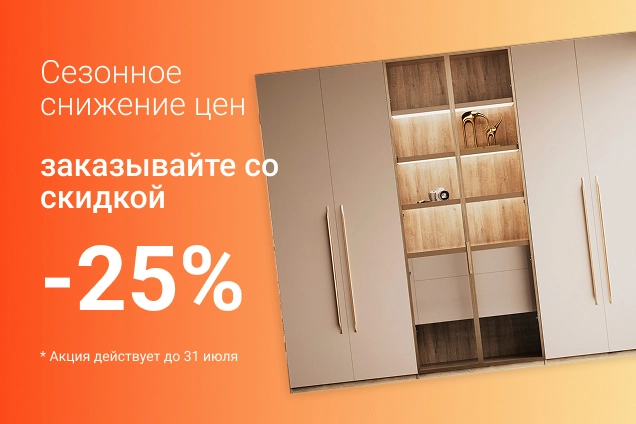
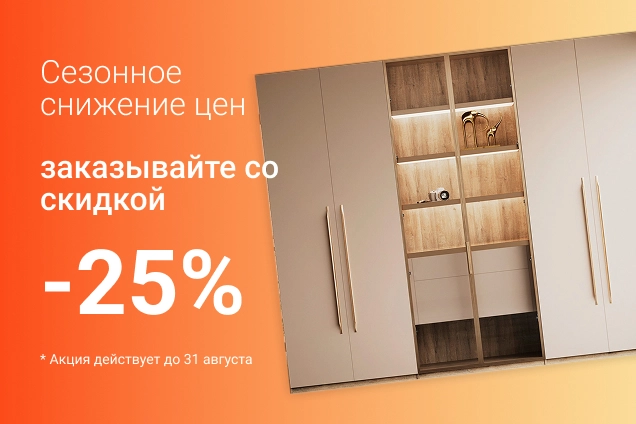
обновил даты акций

Changed region(s): [[0.0597, 0.5519, 0.3884, 0.7665], [0.0597, 0.3373, 0.4481, 0.5212], [0.0597, 0.8278, 0.4182, 0.8585]]

diff --git a/calculator.php b/calculator.php
@@ -337,7 +337,7 @@ include "header.php"; ?>
 				<div class="col-12 col-md-6 mb-3 mb-md-0 section-image order-1 order-md-0">
 					<div class="single-image-wrapper">
 						<div class="approximation img-wrapper position-relative gallery-2691">
-							<img src="<?php echo get_stylesheet_directory_uri(); ?>/img/card/action-card.webp" class="d-block w-100 single-product-img rounded-large" loading="lazy" alt="Скидка до 25%. Акция до 31 июля">
+							<img src="<?php echo get_stylesheet_directory_uri(); ?>/img/card/action-card.webp" class="d-block w-100 single-product-img rounded-large" loading="lazy" alt="Скидка до 25%. Акция до 31 августа">
 						</div>
 					</div>
 				</div>
@@ -345,7 +345,7 @@ include "header.php"; ?>
 				<div class="col-12 col-md-6 mb-0 section-image order-1 order-md-0">
 					<div class="single-image-wrapper">
 						<div class="approximation img-wrapper position-relative gallery-2691">
-							<img src="<?php echo get_stylesheet_directory_uri(); ?>/img/card/action-card-2.webp" class="d-block w-100 single-product-img rounded-large" loading="lazy" alt="Беспроцентная рассрочка на 1 год. Акция до 31 июля">
+							<img src="<?php echo get_stylesheet_directory_uri(); ?>/img/card/action-card-2.webp" class="d-block w-100 single-product-img rounded-large" loading="lazy" alt="Беспроцентная рассрочка на 1 год. Акция до 31 августа">
 						</div>
 					</div>
 				</div>

diff --git a/shkafy-cupe.php b/shkafy-cupe.php
@@ -360,7 +360,7 @@ include "header.php"; ?>
 				<div class="col-12 col-md-6 mb-3 mb-md-0 section-image order-1 order-md-0">
 					<div class="single-image-wrapper">
 						<div class="approximation img-wrapper position-relative gallery-2691">
-							<img src="<?php echo get_stylesheet_directory_uri(); ?>/img/card/action-card.webp" class="d-block w-100 single-product-img rounded-large" loading="lazy" alt="Скидка до 25%. Акция до 31 июля">
+							<img src="<?php echo get_stylesheet_directory_uri(); ?>/img/card/action-card.webp" class="d-block w-100 single-product-img rounded-large" loading="lazy" alt="Скидка до 25%. Акция до 31 августа">
 						</div>
 					</div>
 				</div>
@@ -368,7 +368,7 @@ include "header.php"; ?>
 				<div class="col-12 col-md-6 mb-0 section-image order-1 order-md-0">
 					<div class="single-image-wrapper">
 						<div class="approximation img-wrapper position-relative gallery-2691">
-							<img src="<?php echo get_stylesheet_directory_uri(); ?>/img/card/action-card-2.webp" class="d-block w-100 single-product-img rounded-large" loading="lazy" alt="Беспроцентная рассрочка на 1 год. Акция до 31 июля">
+							<img src="<?php echo get_stylesheet_directory_uri(); ?>/img/card/action-card-2.webp" class="d-block w-100 single-product-img rounded-large" loading="lazy" alt="Беспроцентная рассрочка на 1 год. Акция до 31 августа">
 						</div>
 					</div>
 				</div>

diff --git a/shkafy-raspashnye-new.php b/shkafy-raspashnye-new.php
@@ -302,10 +302,10 @@ $hero_bg = $theme_uri . "/img/ico/advantage/hero-shkafy-raspashnye.jpg"; ?>
 		</div>
 		<div class="row">
 			<div class="col-12 col-md-6 mb-4 mb-md-0">
-				<img src="<?php echo $theme_uri; ?>/img/card/action-card.webp" class="stock__img" loading="lazy" alt="Скидка до 25%. Акция до 31 июля">
+				<img src="<?php echo $theme_uri; ?>/img/card/action-card.webp" class="stock__img" loading="lazy" alt="Скидка до 25%. Акция до 31 августа">
 			</div>
 			<div class="col-12 col-md-6">
-				<img src="<?php echo $theme_uri; ?>/img/card/action-card-2.webp" class="stock__img" loading="lazy" alt="Беспроцентная рассрочка на 1 год. Акция до 31 июля">
+				<img src="<?php echo $theme_uri; ?>/img/card/action-card-2.webp" class="stock__img" loading="lazy" alt="Беспроцентная рассрочка на 1 год. Акция до 31 августа">
 			</div>
 		</div>
 	</div>

diff --git a/rabochie-zony-new.php b/rabochie-zony-new.php
@@ -302,10 +302,10 @@ $hero_bg = $theme_uri . "/img/ico/advantage/hero-rabochie-zony.jpg"; ?>
 		</div>
 		<div class="row">
 			<div class="col-12 col-md-6 mb-4 mb-md-0">
-				<img src="<?php echo $theme_uri; ?>/img/card/action-card.webp" class="stock__img" loading="lazy" alt="Скидка до 25%. Акция до 31 июля">
+				<img src="<?php echo $theme_uri; ?>/img/card/action-card.webp" class="stock__img" loading="lazy" alt="Скидка до 25%. Акция до 31 августа">
 			</div>
 			<div class="col-12 col-md-6">
-				<img src="<?php echo $theme_uri; ?>/img/card/action-card-2.webp" class="stock__img" loading="lazy" alt="Беспроцентная рассрочка на 1 год. Акция до 31 июля">
+				<img src="<?php echo $theme_uri; ?>/img/card/action-card-2.webp" class="stock__img" loading="lazy" alt="Беспроцентная рассрочка на 1 год. Акция до 31 августа">
 			</div>
 		</div>
 	</div>

diff --git a/garderobnye-new.php b/garderobnye-new.php
@@ -302,10 +302,10 @@ $hero_bg = $theme_uri . "/img/ico/advantage/hero-garderobnye.jpg"; ?>
 		</div>
 		<div class="row">
 			<div class="col-12 col-md-6 mb-4 mb-md-0">
-				<img src="<?php echo $theme_uri; ?>/img/card/action-card.webp" class="stock__img" loading="lazy" alt="Скидка до 25%. Акция до 31 июля">
+				<img src="<?php echo $theme_uri; ?>/img/card/action-card.webp" class="stock__img" loading="lazy" alt="Скидка до 25%. Акция до 31 августа">
 			</div>
 			<div class="col-12 col-md-6">
-				<img src="<?php echo $theme_uri; ?>/img/card/action-card-2.webp" class="stock__img" loading="lazy" alt="Беспроцентная рассрочка на 1 год. Акция до 31 июля">
+				<img src="<?php echo $theme_uri; ?>/img/card/action-card-2.webp" class="stock__img" loading="lazy" alt="Беспроцентная рассрочка на 1 год. Акция до 31 августа">
 			</div>
 		</div>
 	</div>

diff --git a/dveri-cupe-new.php b/dveri-cupe-new.php
@@ -302,10 +302,10 @@ $hero_bg = $theme_uri . "/img/ico/advantage/hero-dveri-cupe.jpg"; ?>
 		</div>
 		<div class="row">
 			<div class="col-12 col-md-6 mb-4 mb-md-0">
-				<img src="<?php echo $theme_uri; ?>/img/card/action-card.webp" class="stock__img" loading="lazy" alt="Скидка до 25%. Акция до 31 июля">
+				<img src="<?php echo $theme_uri; ?>/img/card/action-card.webp" class="stock__img" loading="lazy" alt="Скидка до 25%. Акция до 31 августа">
 			</div>
 			<div class="col-12 col-md-6">
-				<img src="<?php echo $theme_uri; ?>/img/card/action-card-2.webp" class="stock__img" loading="lazy" alt="Беспроцентная рассрочка на 1 год. Акция до 31 июля">
+				<img src="<?php echo $theme_uri; ?>/img/card/action-card-2.webp" class="stock__img" loading="lazy" alt="Беспроцентная рассрочка на 1 год. Акция до 31 августа">
 			</div>
 		</div>
 	</div>

diff --git a/shkafy-cupe-new.php b/shkafy-cupe-new.php
@@ -302,10 +302,10 @@ $hero_bg = $theme_uri . "/img/ico/advantage/new-main.jpg"; ?>
 		</div>
 		<div class="row">
 			<div class="col-12 col-md-6 mb-4 mb-md-0">
-				<img src="<?php echo $theme_uri; ?>/img/card/action-card.webp" class="stock__img" loading="lazy" alt="Скидка до 25%. Акция до 31 июля">
+				<img src="<?php echo $theme_uri; ?>/img/card/action-card.webp" class="stock__img" loading="lazy" alt="Скидка до 25%. Акция до 31 августа">
 			</div>
 			<div class="col-12 col-md-6">
-				<img src="<?php echo $theme_uri; ?>/img/card/action-card-2.webp" class="stock__img" loading="lazy" alt="Беспроцентная рассрочка на 1 год. Акция до 31 июля">
+				<img src="<?php echo $theme_uri; ?>/img/card/action-card-2.webp" class="stock__img" loading="lazy" alt="Беспроцентная рассрочка на 1 год. Акция до 31 августа">
 			</div>
 		</div>
 	</div>

diff --git a/home-new.php b/home-new.php
@@ -563,10 +563,10 @@ if (isset($_GET["product"])) {
 		</div>
 		<div class="row">
 			<div class="col-12 col-md-6 mb-4 mb-md-0">
-				<img src="<?php echo $theme_uri; ?>/img/card/action-card.webp" class="stock__img" loading="lazy" alt="Скидка до 25%. Акция до 31 июля">
+				<img src="<?php echo $theme_uri; ?>/img/card/action-card.webp" class="stock__img" loading="lazy" alt="Скидка до 25%. Акция до 31 августа">
 			</div>
 			<div class="col-12 col-md-6">
-				<img src="<?php echo $theme_uri; ?>/img/card/action-card-2.webp" class="stock__img" loading="lazy" alt="Беспроцентная рассрочка на 1 год. Акция до 31 июля">
+				<img src="<?php echo $theme_uri; ?>/img/card/action-card-2.webp" class="stock__img" loading="lazy" alt="Беспроцентная рассрочка на 1 год. Акция до 31 августа">
 			</div>
 		</div>
 	</div>

diff --git a/calculator-new.php b/calculator-new.php
@@ -304,10 +304,10 @@ include "header.php"; ?>
 		</div>
 		<div class="row">
 			<div class="col-12 col-md-6 mb-4 mb-md-0">
-				<img src="<?php echo $theme_uri; ?>/img/card/action-card.webp" class="stock__img" loading="lazy" alt="Скидка до 25%. Акция до 31 июля">
+				<img src="<?php echo $theme_uri; ?>/img/card/action-card.webp" class="stock__img" loading="lazy" alt="Скидка до 25%. Акция до 31 августа">
 			</div>
 			<div class="col-12 col-md-6">
-				<img src="<?php echo $theme_uri; ?>/img/card/action-card-2.webp" class="stock__img" loading="lazy" alt="Беспроцентная рассрочка на 1 год. Акция до 31 июля">
+				<img src="<?php echo $theme_uri; ?>/img/card/action-card-2.webp" class="stock__img" loading="lazy" alt="Беспроцентная рассрочка на 1 год. Акция до 31 августа">
 			</div>
 		</div>
 	</div>
